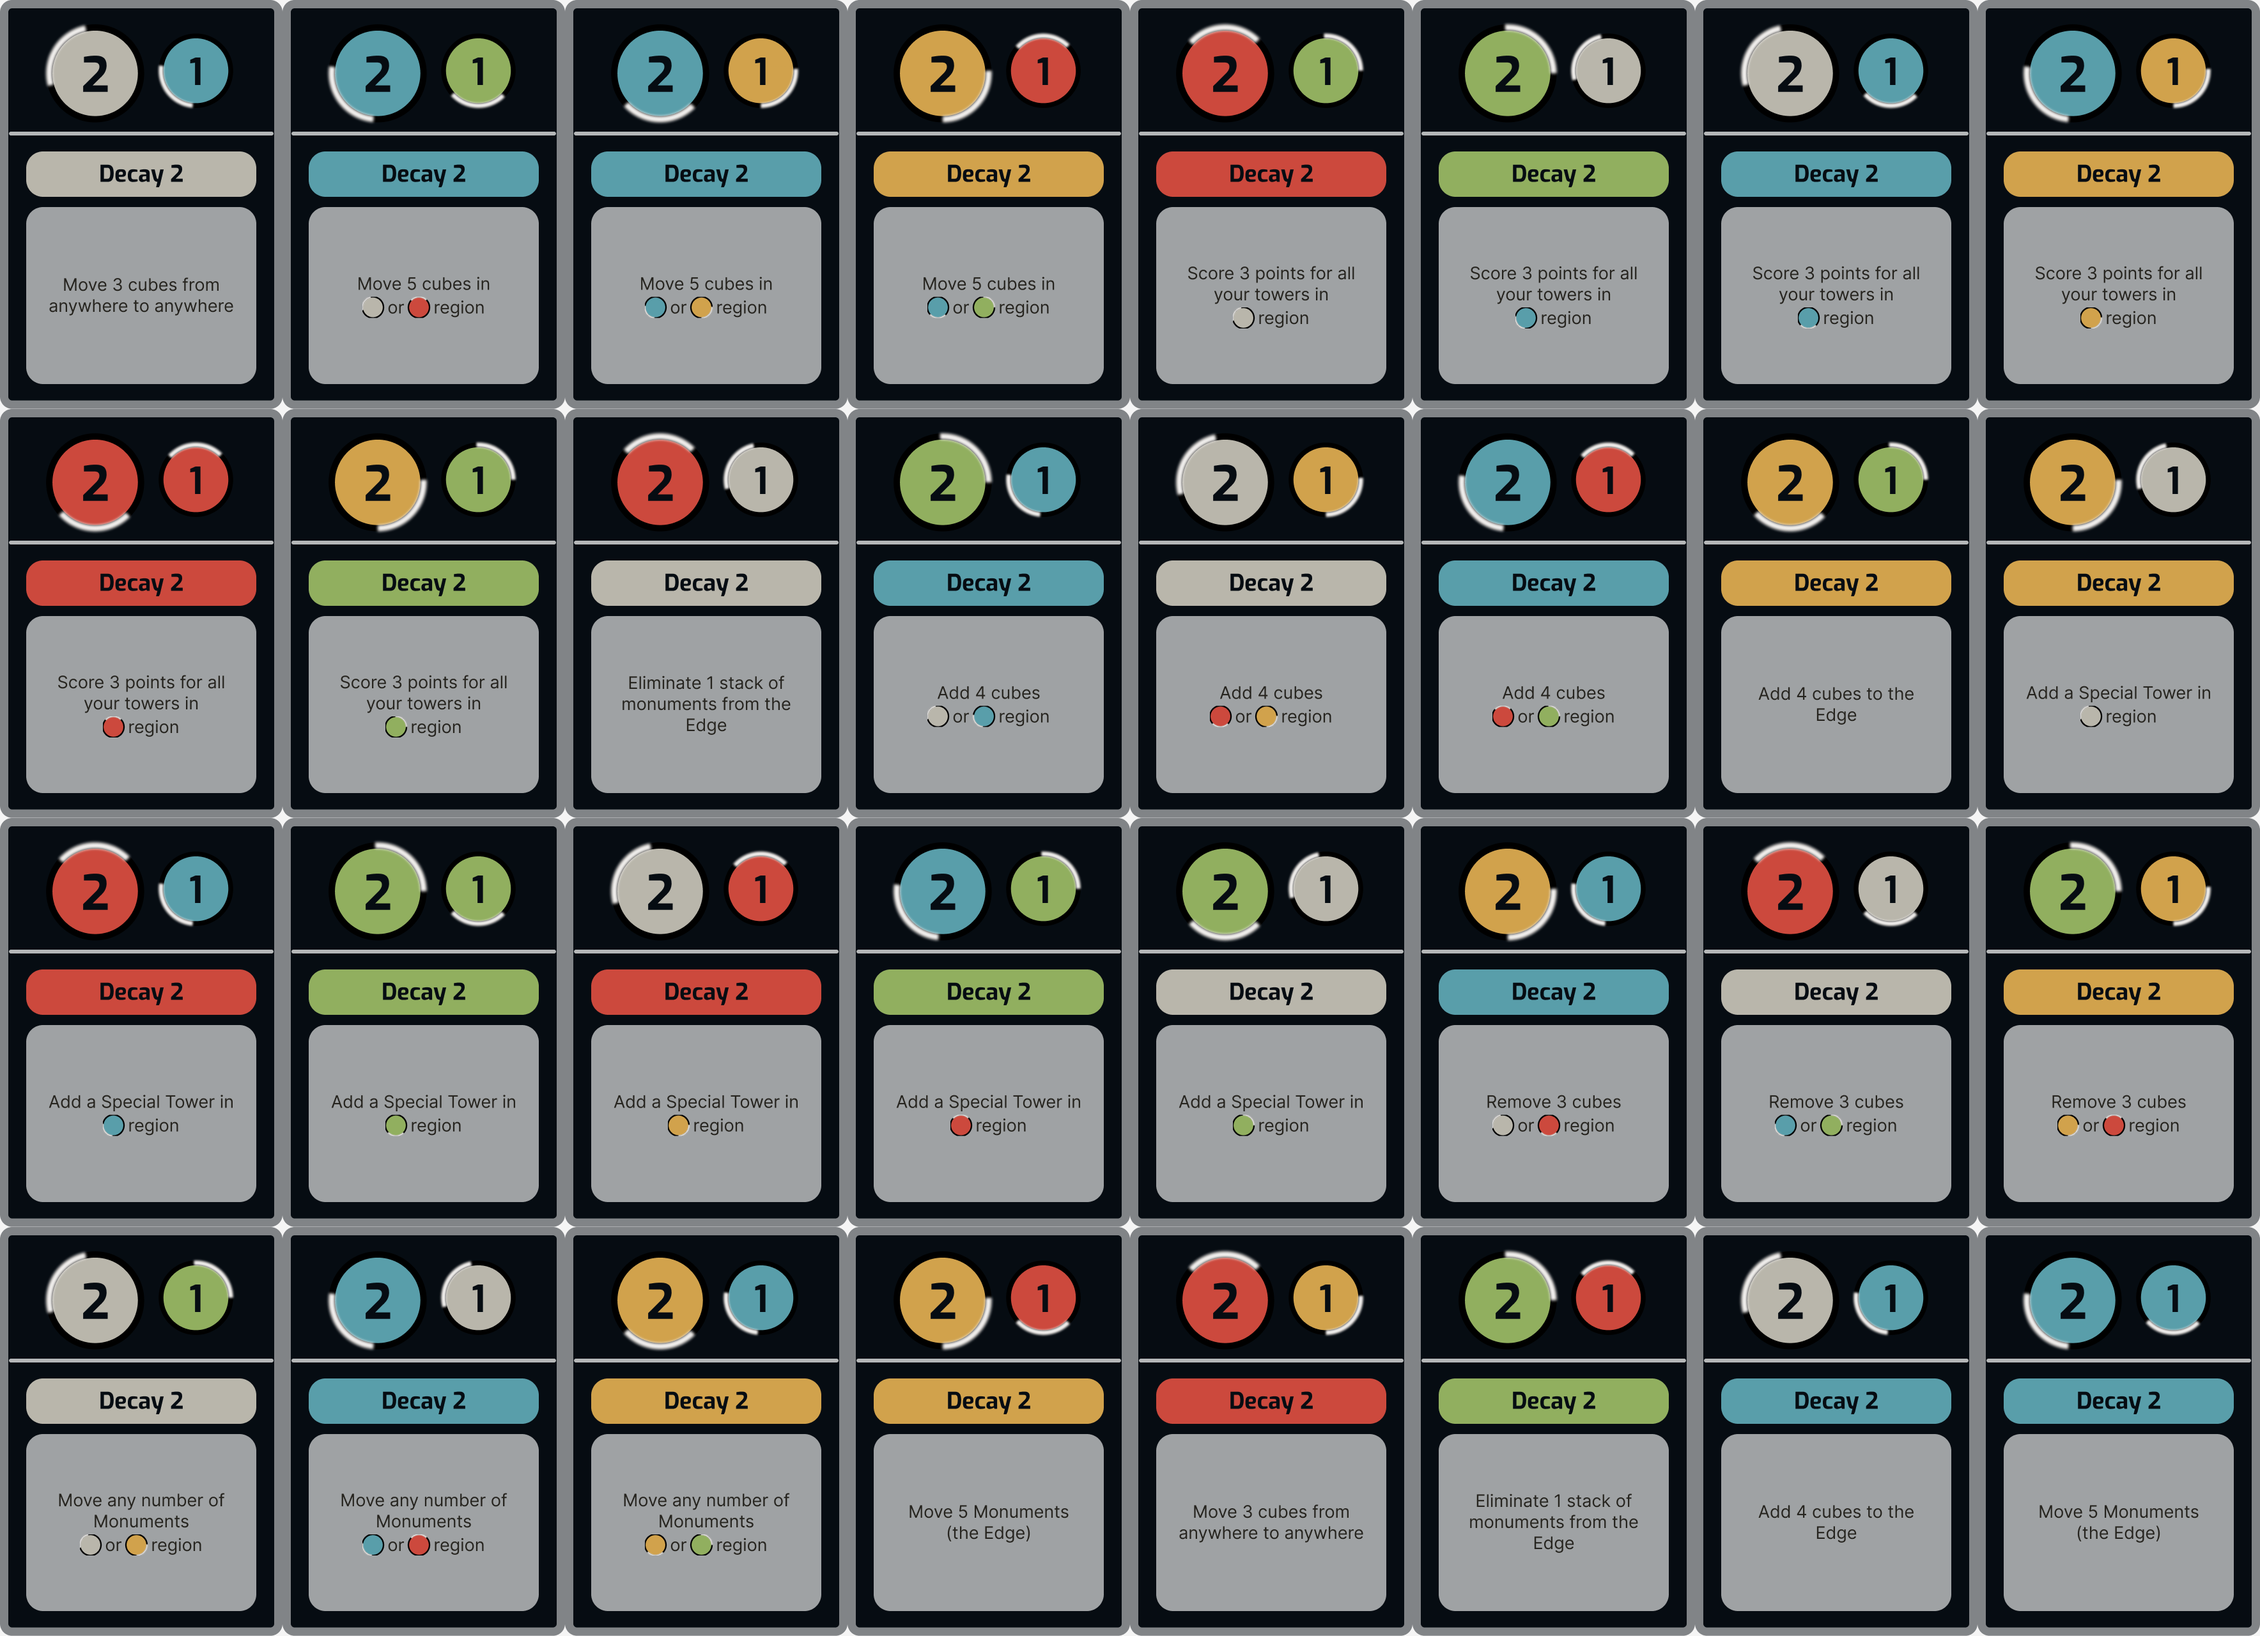
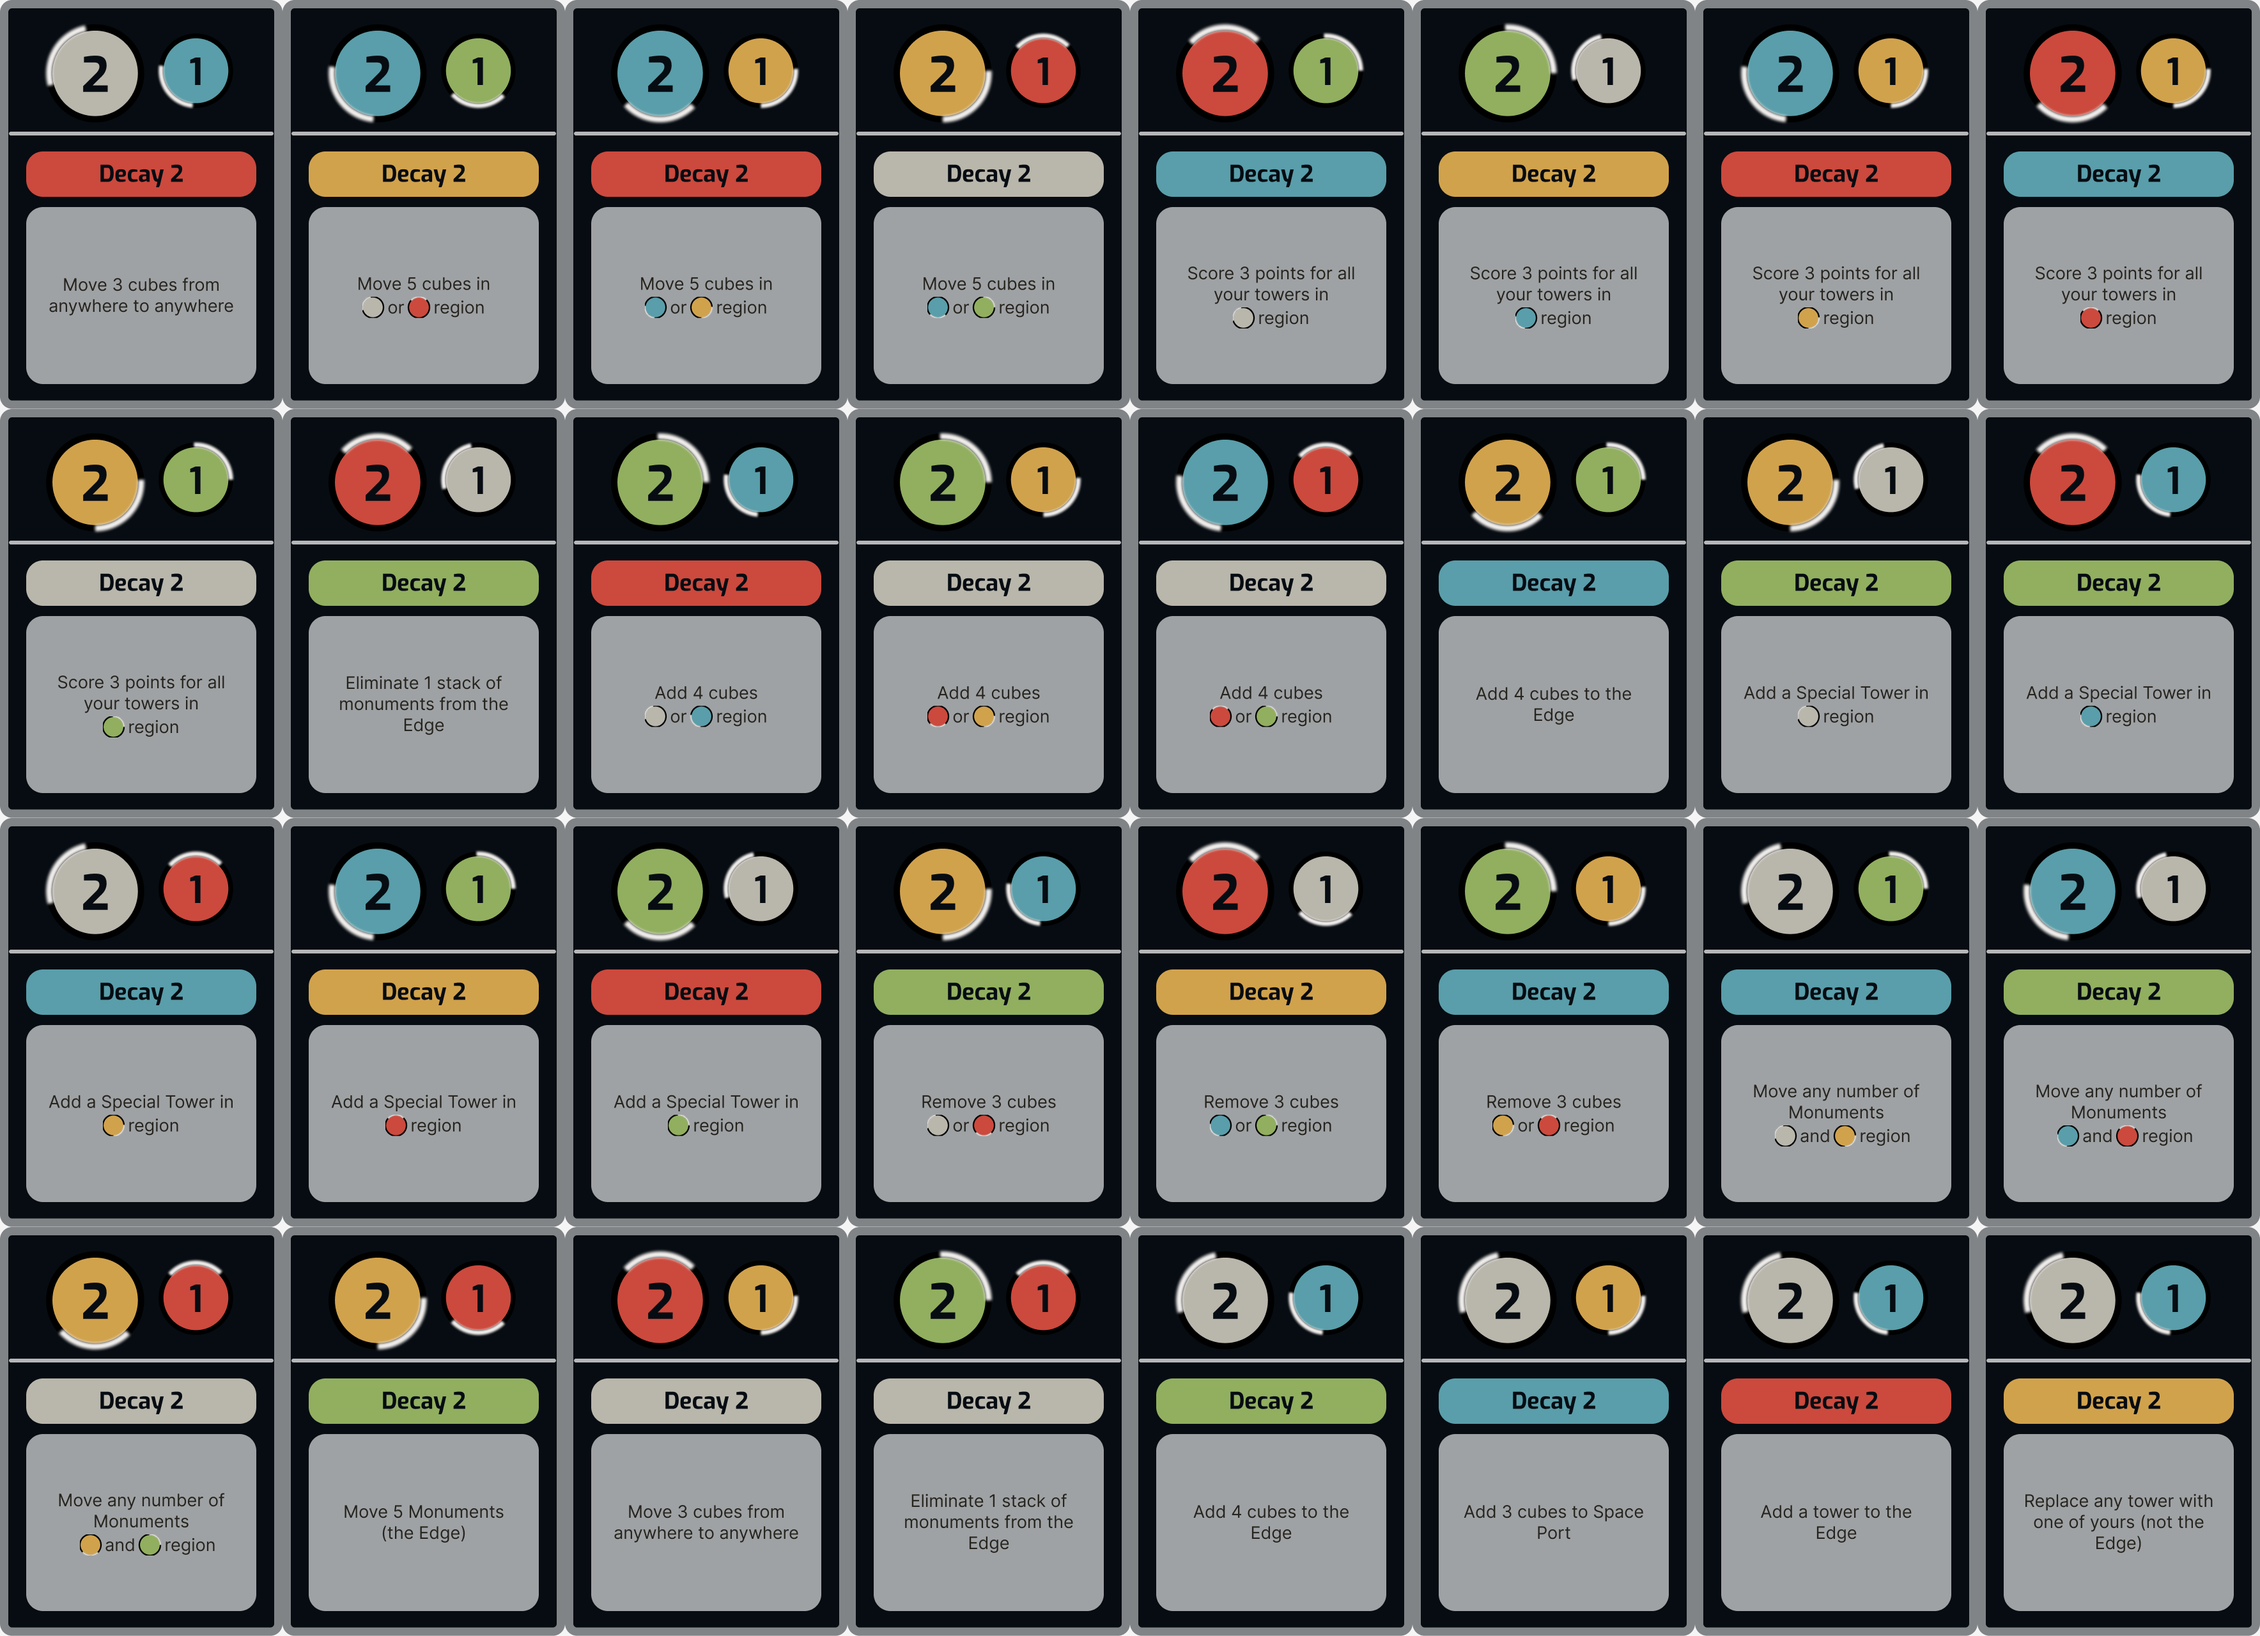
Rebalance monument and objective cards

diff --git a/docs/catalog.js b/docs/catalog.js
@@ -1,1 +1,1 @@
-window.FRONTIER_CATALOG = {"source": "Figma Game components slice 218:13798", "boards": [{"title": "Main board", "figmaId": "206:12165", "path": "assets/boards/board-main-e46ceed54f.png", "width": 3394, "height": 2761}, {"title": "The Edge", "figmaId": "207:12552", "path": "assets/boards/board-edge-4a245f7e45.png", "width": 1536, "height": 1024}, {"title": "Space Ports", "figmaId": "207:12484", "path": "assets/boards/board-space-ports-e3b3754e2d.png", "width": 1536, "height": 1024}], "cards": [{"title": "Action Guide", "figmaId": "193:5684", "path": "assets/cards/card-action-guide-6323e6fee4.png", "width": 506, "height": 729}, {"title": "Region Bonus Guide", "figmaId": "193:5730", "path": "assets/cards/card-region-bonus-guide-800eb32bd9.png", "width": 506, "height": 732}], "references": [{"title": "Board locations · regions and circle icons", "figmaId": "242:3938", "path": "assets/references/board-locations-dbe7a4fe3e.png", "width": 920, "height": 1256}], "decks": [{"title": "Monuments", "figmaId": "216:4802", "count": 32, "columns": 8, "rows": 4, "cardWidth": 442, "cardHeight": 640, "face": {"path": "assets/decks/monuments-faces-d44fdccb0e.png", "width": 3536, "height": 2560}, "back": {"path": "assets/decks/monuments-back-a65fba90e2.png", "width": 442, "height": 640}}, {"title": "Objectives", "figmaId": "193:5755", "count": 30, "columns": 6, "rows": 5, "cardWidth": 388, "cardHeight": 519, "face": {"path": "assets/decks/objectives-faces-4d91a50427.png", "width": 2328, "height": 2595}, "back": {"path": "assets/decks/objectives-back-c08c78cc67.png", "width": 388, "height": 519}}, {"title": "Specials", "figmaId": "220:3842", "count": 16, "columns": 4, "rows": 4, "cardWidth": 442, "cardHeight": 640, "face": {"path": "assets/decks/specials-faces-adc1172863.png", "width": 1768, "height": 2560}, "back": {"path": "assets/decks/specials-back-0b946676e3.png", "width": 442, "height": 640}}], "tokens": [{"title": "Action tile 1", "figmaId": "193:5655", "path": "assets/tokens/action-tile-1-fb100c9aa5.png", "width": 213, "height": 213}, {"title": "Spaceport 1", "figmaId": "193:6028", "path": "assets/tokens/spaceport-1-302a9c004a.png", "width": 118, "height": 118}, {"title": "Action tile 2", "figmaId": "193:5672", "path": "assets/tokens/action-tile-2-7107aa55c8.png", "width": 213, "height": 213}, {"title": "Spaceport 2", "figmaId": "193:6033", "path": "assets/tokens/spaceport-2-fd529145f4.png", "width": 118, "height": 118}, {"title": "Action tile 3", "figmaId": "193:5675", "path": "assets/tokens/action-tile-3-ef94b504ad.png", "width": 213, "height": 213}, {"title": "Spaceport 3", "figmaId": "193:6038", "path": "assets/tokens/spaceport-3-d3dafc6275.png", "width": 118, "height": 118}, {"title": "Action tile 4", "figmaId": "193:5678", "path": "assets/tokens/action-tile-4-21af0fce2d.png", "width": 213, "height": 213}, {"title": "Spaceport 4", "figmaId": "193:6048", "path": "assets/tokens/spaceport-4-34415a9bdb.png", "width": 118, "height": 118}, {"title": "Action tile 5", "figmaId": "193:5660", "path": "assets/tokens/action-tile-5-39a0ec00fc.png", "width": 213, "height": 213}, {"title": "Spaceport 5", "figmaId": "193:6043", "path": "assets/tokens/spaceport-5-aac305d707.png", "width": 118, "height": 118}, {"title": "Action tile 6", "figmaId": "193:5669", "path": "assets/tokens/action-tile-6-813e8438d5.png", "width": 213, "height": 213}, {"title": "Spaceport 6", "figmaId": "193:6053", "path": "assets/tokens/spaceport-6-3d7e644031.png", "width": 118, "height": 118}, {"title": "Action tile 7", "figmaId": "229:13799", "path": "assets/tokens/action-tile-7-7d3d7a7703.png", "width": 213, "height": 213}]};
+window.FRONTIER_CATALOG = {"source": "Figma Game components slice 218:13798", "boards": [{"title": "Main board", "figmaId": "206:12165", "path": "assets/boards/board-main-e46ceed54f.png", "width": 3394, "height": 2761}, {"title": "The Edge", "figmaId": "207:12552", "path": "assets/boards/board-edge-4a245f7e45.png", "width": 1536, "height": 1024}, {"title": "Space Ports", "figmaId": "207:12484", "path": "assets/boards/board-space-ports-e3b3754e2d.png", "width": 1536, "height": 1024}], "cards": [{"title": "Action Guide", "figmaId": "193:5684", "path": "assets/cards/card-action-guide-6323e6fee4.png", "width": 506, "height": 729}, {"title": "Region Bonus Guide", "figmaId": "193:5730", "path": "assets/cards/card-region-bonus-guide-800eb32bd9.png", "width": 506, "height": 732}], "references": [{"title": "Board locations · regions and circle icons", "figmaId": "242:3938", "path": "assets/references/board-locations-dbe7a4fe3e.png", "width": 920, "height": 1256}], "decks": [{"title": "Monuments", "figmaId": "216:4802", "count": 32, "columns": 8, "rows": 4, "cardWidth": 442, "cardHeight": 640, "face": {"path": "assets/decks/monuments-faces-d44fdccb0e.png", "width": 3536, "height": 2560}, "back": {"path": "assets/decks/monuments-back-a65fba90e2.png", "width": 442, "height": 640}}, {"title": "Monument 33", "figmaId": "216:6008", "count": 1, "columns": 1, "rows": 1, "cardWidth": 442, "cardHeight": 640, "face": {"path": "assets/decks/monument-33-faces.png", "width": 442, "height": 640}, "back": {"path": "assets/decks/monument-33-back.png", "width": 442, "height": 640}}, {"title": "Objectives", "figmaId": "193:5755", "count": 30, "columns": 6, "rows": 5, "cardWidth": 388, "cardHeight": 519, "face": {"path": "assets/decks/objectives-faces-4d91a50427.png", "width": 2328, "height": 2595}, "back": {"path": "assets/decks/objectives-back-c08c78cc67.png", "width": 388, "height": 519}}, {"title": "Specials", "figmaId": "220:3842", "count": 16, "columns": 4, "rows": 4, "cardWidth": 442, "cardHeight": 640, "face": {"path": "assets/decks/specials-faces-adc1172863.png", "width": 1768, "height": 2560}, "back": {"path": "assets/decks/specials-back-0b946676e3.png", "width": 442, "height": 640}}], "tokens": [{"title": "Action tile 1", "figmaId": "193:5655", "path": "assets/tokens/action-tile-1-fb100c9aa5.png", "width": 213, "height": 213}, {"title": "Spaceport 1", "figmaId": "193:6028", "path": "assets/tokens/spaceport-1-302a9c004a.png", "width": 118, "height": 118}, {"title": "Action tile 2", "figmaId": "193:5672", "path": "assets/tokens/action-tile-2-7107aa55c8.png", "width": 213, "height": 213}, {"title": "Spaceport 2", "figmaId": "193:6033", "path": "assets/tokens/spaceport-2-fd529145f4.png", "width": 118, "height": 118}, {"title": "Action tile 3", "figmaId": "193:5675", "path": "assets/tokens/action-tile-3-ef94b504ad.png", "width": 213, "height": 213}, {"title": "Spaceport 3", "figmaId": "193:6038", "path": "assets/tokens/spaceport-3-d3dafc6275.png", "width": 118, "height": 118}, {"title": "Action tile 4", "figmaId": "193:5678", "path": "assets/tokens/action-tile-4-21af0fce2d.png", "width": 213, "height": 213}, {"title": "Spaceport 4", "figmaId": "193:6048", "path": "assets/tokens/spaceport-4-34415a9bdb.png", "width": 118, "height": 118}, {"title": "Action tile 5", "figmaId": "193:5660", "path": "assets/tokens/action-tile-5-39a0ec00fc.png", "width": 213, "height": 213}, {"title": "Spaceport 5", "figmaId": "193:6043", "path": "assets/tokens/spaceport-5-aac305d707.png", "width": 118, "height": 118}, {"title": "Action tile 6", "figmaId": "193:5669", "path": "assets/tokens/action-tile-6-813e8438d5.png", "width": 213, "height": 213}, {"title": "Spaceport 6", "figmaId": "193:6053", "path": "assets/tokens/spaceport-6-3d7e644031.png", "width": 118, "height": 118}, {"title": "Action tile 7", "figmaId": "229:13799", "path": "assets/tokens/action-tile-7-7d3d7a7703.png", "width": 213, "height": 213}]};

diff --git a/docs/index.html b/docs/index.html
@@ -6,7 +6,7 @@
   <meta name="theme-color" content="#12171c">
   <title>Frontier · Tabletop Simulator assets</title>
   <link rel="stylesheet" href="styles.css?v=3">
-  <script defer src="catalog.js?v=00aa768ded"></script>
+  <script defer src="catalog.js?v=db295192c9"></script>
   <script defer src="app.js?v=5"></script>
 </head>
 <body>

diff --git a/scripts/build_assets.py b/scripts/build_assets.py
@@ -100,13 +100,14 @@ def load(name: str) -> Image.Image:
 
 def sheet(name: str, count: int, source_columns: int, origin: tuple[int, int],
           stride: tuple[int, int], card_size: tuple[int, int],
-          columns: int, rows: int) -> dict:
+          columns: int, rows: int, start: int = 0) -> dict:
     image = load(name)
     mode = "RGBA" if "A" in image.getbands() else "RGB"
     result = Image.new(mode, (columns * card_size[0], rows * card_size[1]))
     for index in range(count):
-        source_col = index % source_columns
-        source_row = index // source_columns
+        source_index = start + index
+        source_col = source_index % source_columns
+        source_row = source_index // source_columns
         x = origin[0] + source_col * stride[0]
         y = origin[1] + source_row * stride[1]
         box = (x, y, x + card_size[0], y + card_size[1])
@@ -147,23 +148,25 @@ def main() -> None:
     })
 
     deck_specs = [
-        ("monuments", "Monuments", "216:4802", 32, 6, (0, 0), (482, 680),
-         (442, 640), 8, 4, "back-monument"),
-        ("objectives", "Objectives", "193:5755", 30, 6, (196, 140), (420, 551),
-         (388, 519), 6, 5, "back-objective"),
-        ("specials", "Specials", "220:3842", 16, 5, (0, 0), (482, 680),
-         (442, 640), 4, 4, "back-special"),
+        ("monuments", "monuments", "Monuments", "216:4802", 32, 6, (0, 0), (482, 680),
+         (442, 640), 8, 4, "back-monument", 0),
+        ("monuments", "monument-33", "Monument 33", "216:6008", 1, 6, (0, 0), (482, 680),
+         (442, 640), 1, 1, "back-monument", 32),
+        ("objectives", "objectives", "Objectives", "193:5755", 30, 6, (196, 140), (420, 551),
+         (388, 519), 6, 5, "back-objective", 0),
+        ("specials", "specials", "Specials", "220:3842", 16, 5, (0, 0), (482, 680),
+         (442, 640), 4, 4, "back-special", 0),
     ]
-    for (slug, title, figma_id, count, source_columns, origin, stride,
-         card_size, columns, rows, back_slug) in deck_specs:
+    for (slug, asset_slug, title, figma_id, count, source_columns, origin, stride,
+         card_size, columns, rows, back_slug, start) in deck_specs:
         packed = sheet(slug, count, source_columns, origin, stride,
-                       card_size, columns, rows)
-        face = publish(packed.pop("image"), "decks", f"{slug}-faces")
+                       card_size, columns, rows, start)
+        face = publish(packed.pop("image"), "decks", f"{asset_slug}-faces")
         back = load(back_slug)
         if back.size != card_size:
             # TTS applies the same card geometry to both sides.
             back = back.resize(card_size, Image.Resampling.LANCZOS)
-        back_asset = publish(back, "decks", f"{slug}-back")
+        back_asset = publish(back, "decks", f"{asset_slug}-back")
         catalog["decks"].append({"title": title, "figmaId": figma_id,
                                   **packed, "face": face, "back": back_asset})
 
